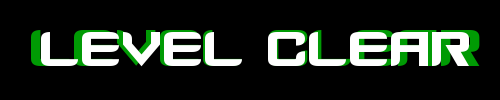
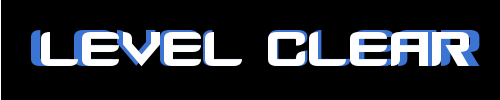
minor graphical tweaks

Changed region(s): [[0.54, 0.3, 0.96, 0.66], [0.06, 0.3, 0.48, 0.66]]

diff --git a/Cyber Cube/Cyber_Cube/Screens/MenuScreen.cs b/Cyber Cube/Cyber_Cube/Screens/MenuScreen.cs
@@ -49,7 +49,7 @@ namespace CyberCube.Screens
 
         public static void LoadContent(ContentManager content)
         {
-            sTitleCard = content.Load<Texture2D>("NavigationItems\\TitleCard");
+            sTitleCard = content.Load<Texture2D>("NavigationItems\\logo");
 
             sNewGame = content.Load<Texture2D>("NavigationItems\\menuNewGame");
             sLoadGame = content.Load<Texture2D>("NavigationItems\\menuLoadGame");
